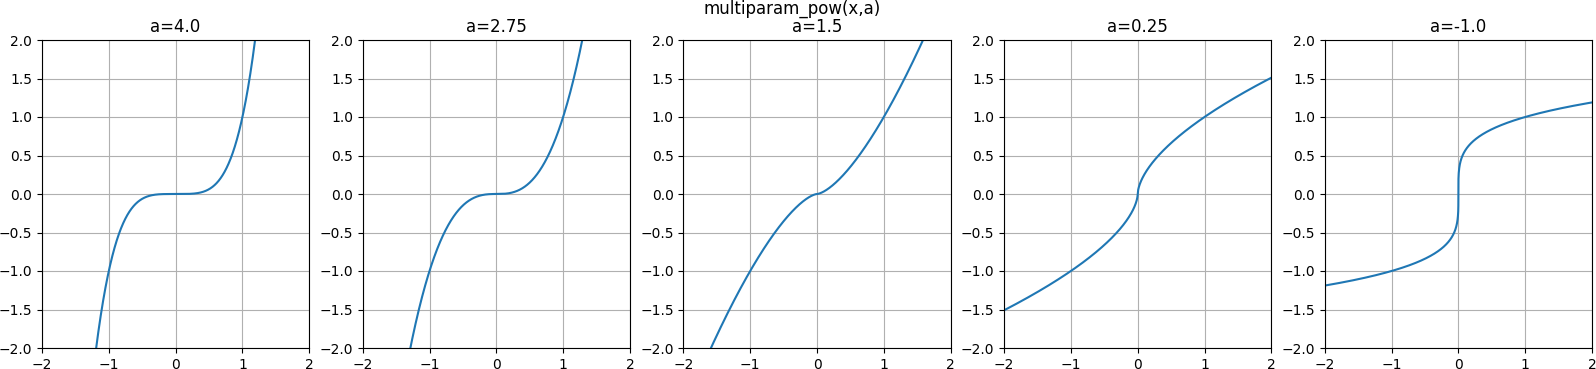
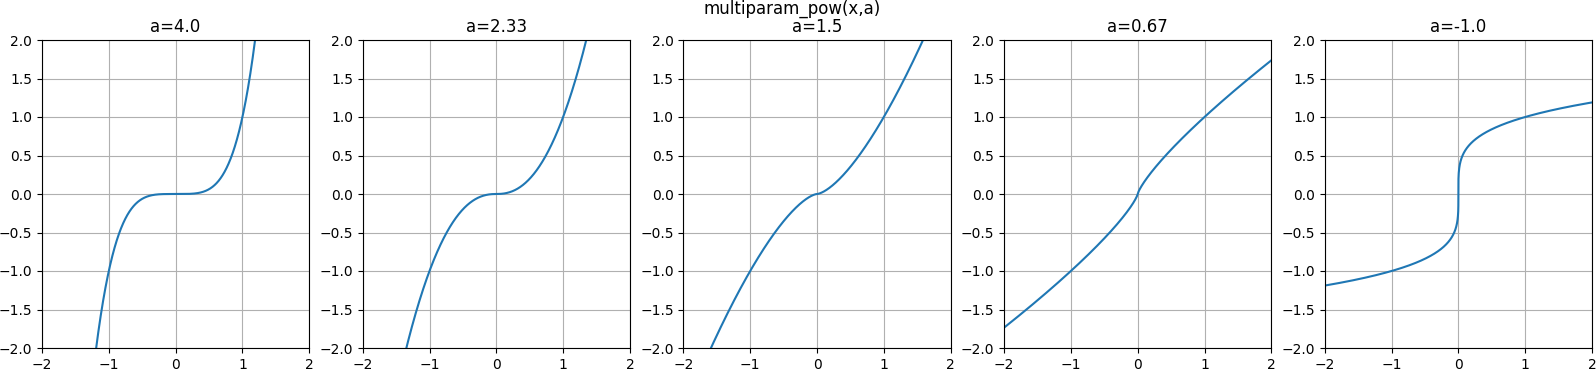
Further adjustments; multiparam_pow using gaussian

diff --git a/docs/plot_activations.py b/docs/plot_activations.py
@@ -131,7 +131,7 @@ def do_prints():
                   + "\n\t".join(save_exact_to_print[result]))
     save_exact_to_print = {}
 
-num_subfigures = 5
+num_subfigures = 5 # ODD NUMBERS ONLY!
 
 x = np.linspace(-2.5, 2.5, 5000)
 
@@ -175,11 +175,15 @@ for n in sorted(iterkeys(mps.multiparam_func_dict['activation'])):
             fig.suptitle("{0}(x,{1},{2})".format(n,param_name,param2_name))
         else:
             fig.suptitle("{0}(x,{1})".format(n, param_name))
-        min_value = mpf.evolved_param_dicts[param_name]['min_value']
-        max_value = mpf.evolved_param_dicts[param_name]['max_value']
+        dict1 = mpf.evolved_param_dicts[param_name]
+        min_value = dict1.get('min_init_value', dict1['min_value'])
+        max_value = dict1.get('max_init_value', dict1['max_value'])
+        init_type = dict1.get('init_type', 'uniform')
         if param2_name is not None:
-            min_value2 = mpf.evolved_param_dicts[param2_name]['min_value']
-            max_value2 = mpf.evolved_param_dicts[param2_name]['max_value']
+            dict2 = mpf.evolved_param_dicts[param2_name]
+            min_value2 = dict2.get('min_init_value', dict2['min_value'])
+            max_value2 = dict2.get('max_init_value', dict2['max_value'])
+            init_type2 = dict2.get('init_type', 'uniform')
         if do_swap:
             param_use = param2_name
             param2_use = param_name
@@ -187,32 +191,59 @@ for n in sorted(iterkeys(mps.multiparam_func_dict['activation'])):
             min_value_use = min_value2
             max_value2_use = max_value
             min_value2_use = min_value
+            init_use = init_type2
+            init2_use = init_type
         else:
             param_use = param_name
             param2_use = param2_name
             max_value_use = max_value
             min_value_use = min_value
+            init_use = init_type
             if param2_name is not None:
                 max_value2_use = max_value2
                 min_value2_use = min_value2
-        
-        param_value_list = np.linspace(max_value_use, min_value_use, num_subfigures)
-        middle_param_value = median2(param_value_list)
+                init2_use = init_type2
+
+        if init_use.lower() in 'uniform':
+            param_value_list = np.linspace(max_value_use, min_value_use, num_subfigures)
+            middle_param_value = median2(param_value_list)
+            important_nums = (min_value_use,middle_param_value,max_value_use)
+        elif init_use.lower() in ('gaussian', 'normal'):
+            param_value_list = [round(a,2) for a in np.linspace(max_value_use, min_value_use, (num_subfigures+2))]
+            del param_value_list[-2]
+            del param_value_list[1]
+            middle_param_value = median2(param_value_list)
+            tmp_param_value_list = sorted(param_value_list, key=lambda x: abs(x-middle_param_value))
+            important_nums = (middle_param_value, tmp_param_value_list[1], tmp_param_value_list[2])
+        else:
+            raise ValueError(
+                "{0}: Unknown init_type {1!r} for param_use '{2}'".format(
+                    n, init_use, param_use))
         subplot_num = 0
         for a in param_value_list:
             subplot_num += 1
             fig.add_subplot(1,num_subfigures,subplot_num)
             if param2_name is not None:
                 param2_value_list = np.linspace(max_value2_use, min_value2_use, 5)
-                for b, color in zip(param2_value_list, ['c-','g--','b-','r--','m-']):
+                if init2_use.lower() in ('gaussian','normal'):
+                    colors_use = ['c--','g-','b-','r-','m--']
+                    important_colors = ('g-','b-','r-')
+                elif init2_use.lower() in 'uniform':
+                    colors_use = ['c-','g--','b-','r--','m-']
+                    important_colors = ('c-', 'b-', 'm-')
+                else:
+                    raise ValueError(
+                        "{0}: Unknown init_type {1!r} for param2_use '{2}'".format(
+                            n, init2_use, param2_use))
+                for b, color in zip(param2_value_list, colors_use):
                     if do_swap:
                         plt.plot(x, [f(i,b,a) for i in x], color, label="{0}={1}".format(param2_use,b))
                     else:
                         plt.plot(x, [f(i,a,b) for i in x], color, label="{0}={1}".format(param2_use,b))
-                        if (color in ('c-', 'b-', 'm-')) and (a in (min_value_use,middle_param_value,max_value_use)):
+                        if (color in important_colors) and (a in important_nums):
                             for i in (-1.0,-0.5,0.0,0.5,1.0):
                                 print_for_testing("{0}_activation({1!s},{2!r},{3!r})".format(n,i,a,b),f(i,a,b))
-                        elif (color in ('c-', 'b-', 'm-')) or (a in (min_value_use,middle_param_value,max_value_use)):
+                        elif (color in important_colors) or (a in important_nums):
                             for i in (-1.0,0.0,1.0):
                                 print_for_testing("{0}_activation({1!s},{2!r},{3!r})".format(n,i,a,b),f(i,a,b))
             else:

diff --git a/neat/multiparameter.py b/neat/multiparameter.py
@@ -164,9 +164,18 @@ class MultiParameterFunction(object):
         if param_dict['param_type'] in ('float','int'):
             if full:
                 self.evolved_param_dicts[n].setdefault('init_type','uniform')
+
+                self.evolved_param_dicts[n].setdefault('max_init_value',
+                                                       param_dict['max_value'])
+                self.evolved_param_dicts[n].setdefault('min_init_value',
+                                                       param_dict['min_value'])
+                self.evolved_param_dicts[n].setdefault('max_value',
+                                                       param_dict['max_init_value'])
+                self.evolved_param_dicts[n].setdefault('min_value',
+                                                       param_dict['min_init_value'])
                 
-                middle = (param_dict['max_value'] +
-                          param_dict['min_value'])/2.0
+                middle = (param_dict['max_init_value'] +
+                          param_dict['min_init_value'])/2.0
                 self.evolved_param_dicts[n].setdefault('init_mean', middle)
                 # below here is mainly intended for users wanting to use built-in
                 # multiparameter functions without too much initialization worries
@@ -174,9 +183,9 @@ class MultiParameterFunction(object):
                 mutate_rate = min((1.0-param_dict['replace_rate']),
                                   (param_dict['replace_rate']*5.0))
                 self.evolved_param_dicts[n].setdefault('mutate_rate', mutate_rate)
-                for_stdev = min(abs(param_dict['max_value'] -
+                for_stdev = min(abs(param_dict['max_init_value'] -
                                     param_dict['init_mean']),
-                                abs(param_dict['min_value'] -
+                                abs(param_dict['min_init_value'] -
                                     param_dict['init_mean']))/2.0
                 if param_dict['init_type'] == 'uniform':
                     self.evolved_param_dicts[n].setdefault('init_stdev', for_stdev)
@@ -189,14 +198,22 @@ class MultiParameterFunction(object):
                     self.evolved_param_dicts[n].setdefault('init_stdev',
                                                            ((4.0*for_stdev)/sqrt(12.0)))
                 if param_dict['mutate_rate'] > 0:
-                    mutate_power = (min(1.0,(param_dict['replace_rate']/param_dict['mutate_rate']))*
-                                    (abs(param_dict['max_value']-param_dict['min_value'])/sqrt(12.0)))
+                    mutate_power = (min(1.0,(param_dict['replace_rate']/
+                                             param_dict['mutate_rate']))*
+                                    (abs(param_dict['max_init_value']
+                                         -param_dict['min_init_value'])/
+                                     sqrt(12.0)))
                     self.evolved_param_dicts[n].setdefault('mutate_power', mutate_power)
                 else: # pragma: no cover
                     self.evolved_param_dicts[n].setdefault('mutate_power', 0.0)
+                    warnings.warn("Mutate_rate for param {0!r} of {1!r} is {2:n}".format(
+                        n, self.orig_name, param_dict['mutate_rate']),
+                                  RuntimeWarning)
 
             param_dict2 = copy.copy(param_dict)
             del param_dict2['param_type']
+            del param_dict2['min_init_value']
+            del param_dict2['max_init_value']
 
             self.evolved_param_attributes[n] = FloatAttribute(name=tmp_name, # TODO: IntAttribute
                                                               default_ok=True,

diff --git a/neat/species.py b/neat/species.py
@@ -213,18 +213,16 @@ class DefaultSpeciesSet(DefaultClassConfig):
                     self.species_set_config.desired_species_num))
             self.species_set_config.desired_species_num = 0
 
-        poss_num_high = math.floor(max(math.sqrt(pop_size_high),
-                                       (pop_size_high/
-                                        self.threshold_adjust_dict['min_good_size']))+1.0)
+        poss_num_high = math.floor((pop_size_high/
+                                    self.threshold_adjust_dict['min_OK_size'])+1.0)
         if poss_num_high < 2: # NEED TEST!
             raise ValueError(
                 "Pop_size {0:n} is too low to determine desired num species;".format(pop_size)
                 + " need minimum of {0:n} given min_good_size {1:n}".format(
-                    (2*self.threshold_adjust_dict['min_good_size']),
-                    self.threshold_adjust_dict['min_good_size']))
-        poss_num_low = max(2,math.ceil(min(math.sqrt(pop_size_low),
-                                           (pop_size_low/
-                                            self.threshold_adjust_dict['min_good_size']))-1.0))
+                    (2*self.threshold_adjust_dict['min_OK_size']),
+                    self.threshold_adjust_dict['min_OK_size']))
+        poss_num_low = max(2,math.ceil((pop_size_low/
+                                        self.threshold_adjust_dict['min_good_size'])-1.0))
         return (poss_num_high,poss_num_low)
 
     def adjust_compatibility_threshold(self, increase, curr_tmean, max_rep_dist): # DOCUMENT!

diff --git a/neat/reproduction.py b/neat/reproduction.py
@@ -96,7 +96,7 @@ class DefaultReproduction(DefaultClassConfig):
         to_return_dict['min_size'] = max(self.reproduction_config.elitism,
                                          self.reproduction_config.min_species_size)
         num_try = max(2,to_return_dict['min_size'])
-        to_return_dict['min_good_size'] = int(
+        to_return_dict['min_OK_size'] = to_return_dict['min_good_size'] = int(
             math.ceil(num_try/self.reproduction_config.survival_threshold))
         while ((num_try*(num_try-1)/2) # number of possible parent combinations
                < (to_return_dict['min_good_size']-num_try)) and (to_return_dict['min_good_size']

diff --git a/neat/activations.py b/neat/activations.py
@@ -379,7 +379,9 @@ class ActivationFunctionSet(object):
                  a={'min_value':0.0, 'max_value':1.0},
                  b={'min_value':-1.0, 'max_value':1.0})
         self.add('multiparam_pow', multiparam_pow_activation,
-                 a={'min_value':-1.0, 'max_value': 4.0})
+                 a={'min_init_value':-1.0, 'max_init_value':4.0,
+                    'min_value':-3.0, 'max_value':16.0,
+                    'init_type':'gaussian'})
 ##        self.add('multiparam_exp', multiparam_exp_activation,
 ##                 a={'min_value':0.0, 'max_value':1.0})
         self.add('wave', wave_activation,
